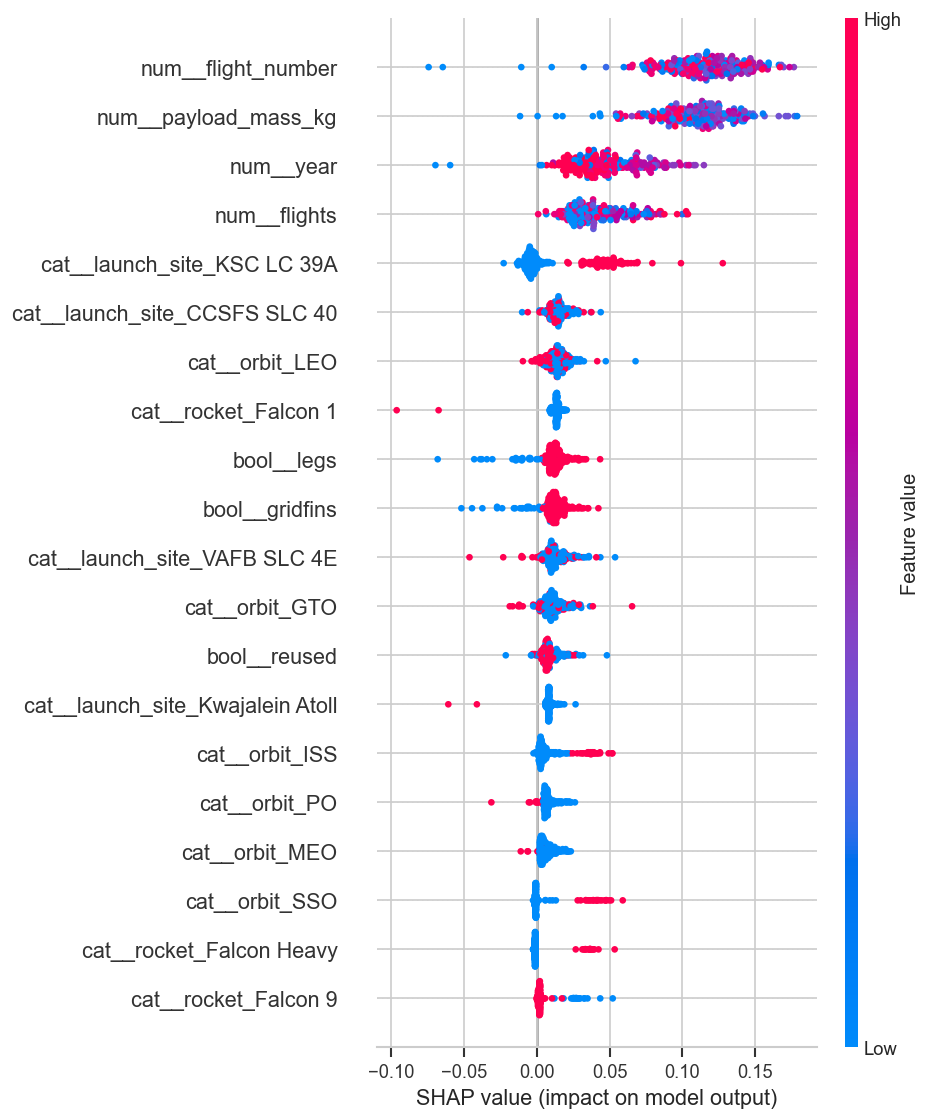
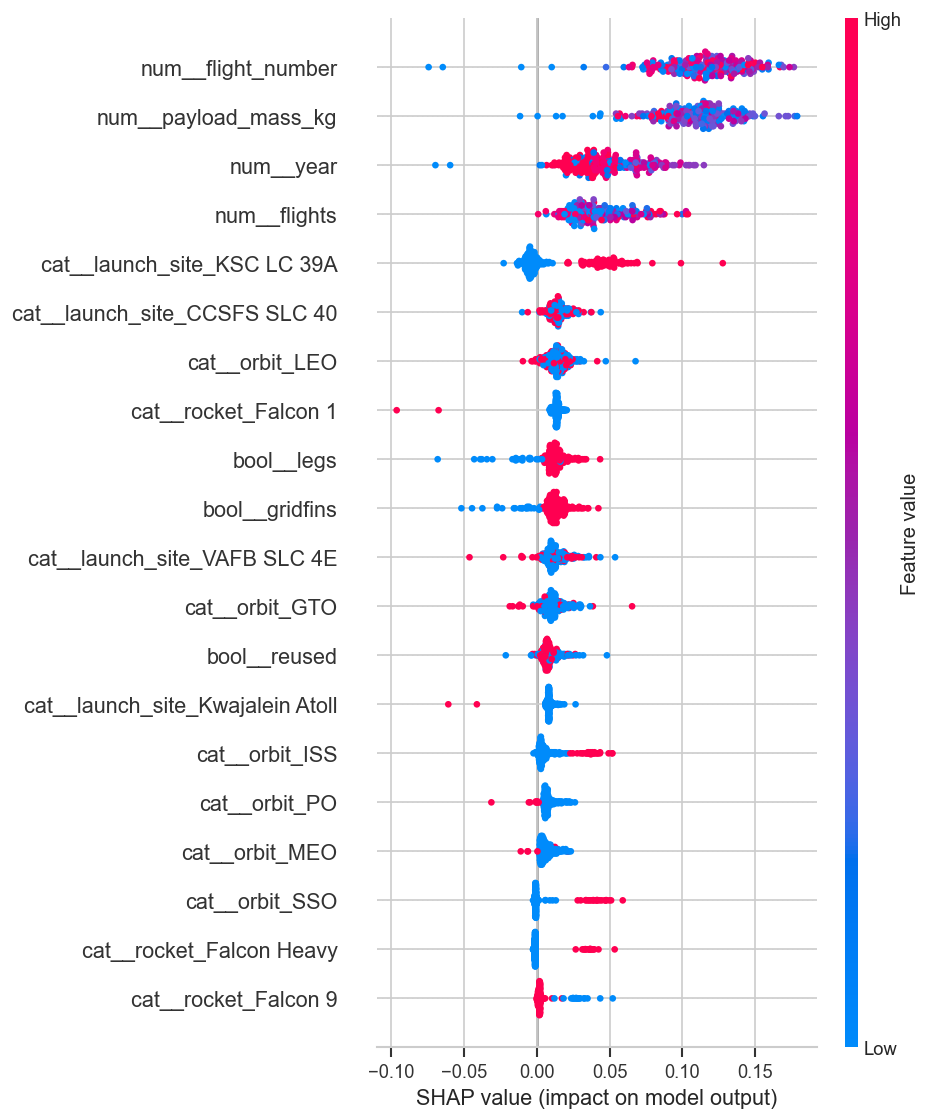
fix: rms

diff --git a/README.md b/README.md
@@ -274,9 +274,11 @@ make lint   # ruff: all checks passed · black: all done
 
 | Nome | RM |
 |------|----|
-| `⟨PREENCHER⟩` | `⟨RM00000⟩` |
-| `⟨PREENCHER⟩` | `⟨RM00000⟩` |
-| `⟨PREENCHER⟩` | `⟨RM00000⟩` |
+| Gustavo Vegi | RM550188 |
+| Pedro Henrique Silva de Morais | RM98804 |
+| Lucas Rodrigues Delfino | RM550196 |
+| Luisa Cristina dos Santos Neves | RM551889 |
+| Gabriel Aparecido Cassalho Xavier | RM99794 |
 
 ---
 